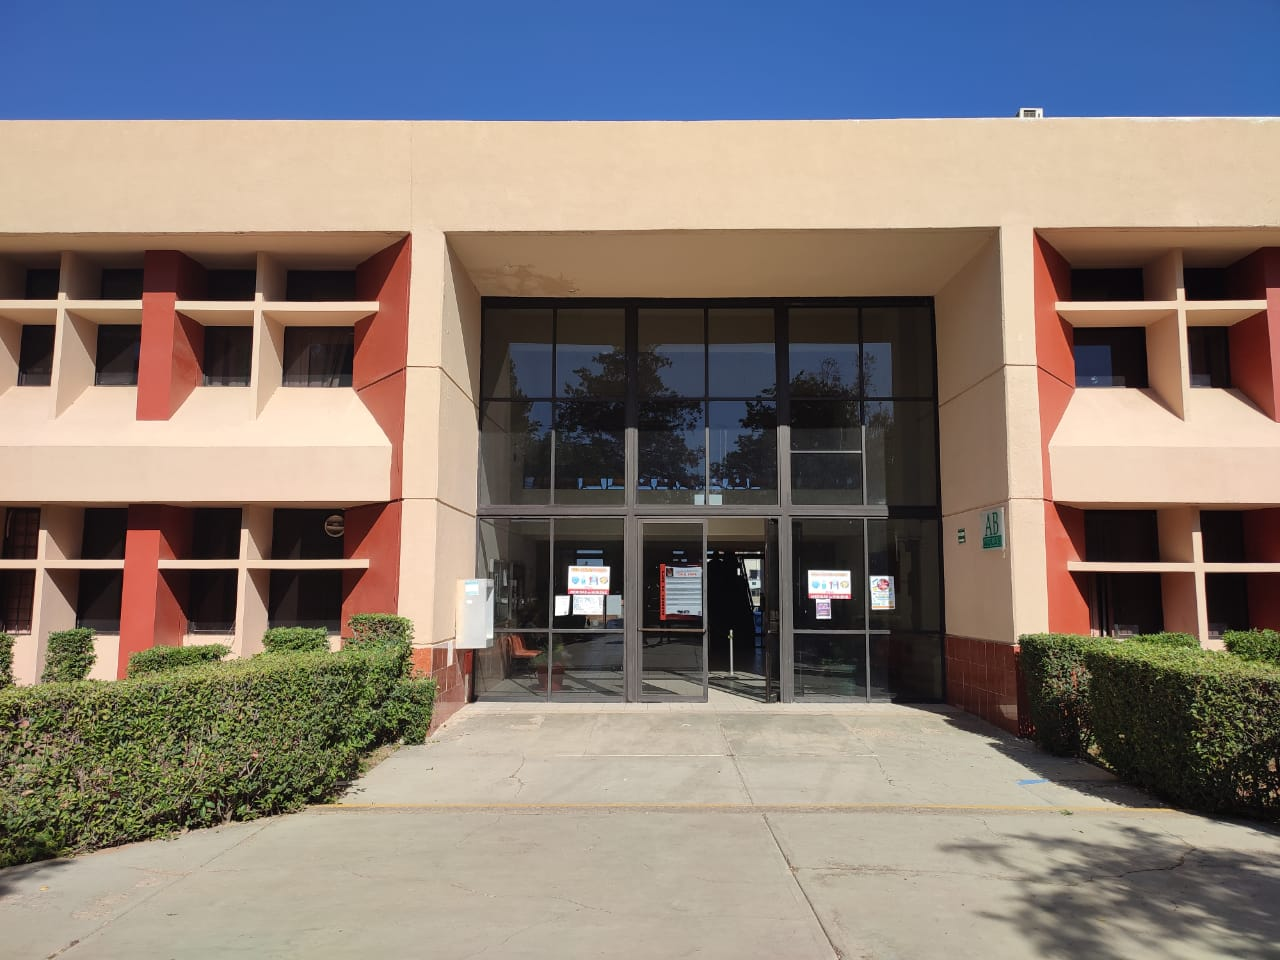
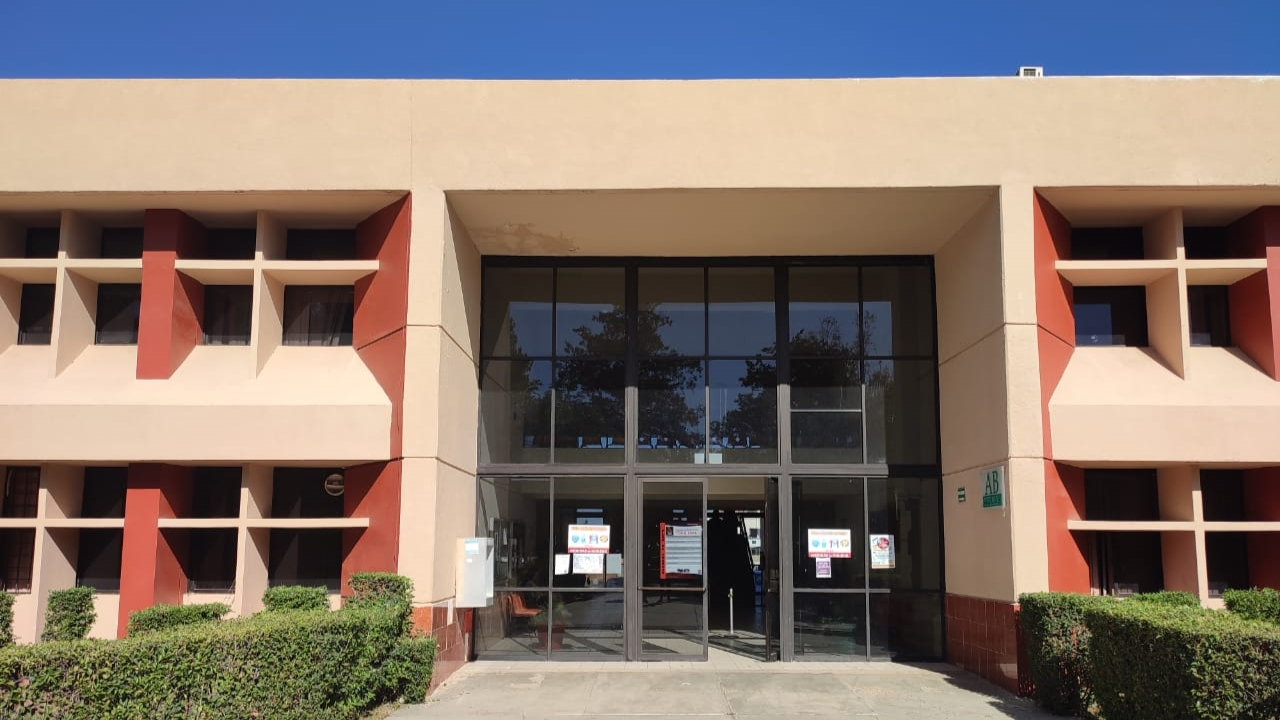
Pre-termiando

diff --git a/VMaptec/html/edificios.php b/VMaptec/html/edificios.php
@@ -34,67 +34,82 @@
                     <!-- Three columns of text below the carousel -->
                     <div class="row">
                         <div class="col-lg-4" style="text-align: center;">
-                            <svg class="bd-placeholder-img rounded-circle" width="140" height="140"
-                                xmlns="http://www.w3.org/2000/svg" role="img" aria-label="Placeholder: 140x140"
-                                preserveAspectRatio="xMidYMid slice" focusable="false" img>
-                                <rect width="100%" height="100%" fill="#777" ></rect>
-                            </svg>
-
+                            <!-- <svg class="bd-placeholder-img img-thumbnail" width="200" height="200" xmlns="http://www.w3.org/2000/svg"
+                                role="img" aria-label="Placeholder: 200x200" preserveAspectRatio="xMidYMid slice"
+                                focusable="false" img>
+                               
+                                <rect width="100%" height="100%" fill="#777"></rect>
+                            </svg> -->
+                            <img src="../imagenes/edificioa.jpeg" width="100%" style="border-radius: 15px;">
                             <h2>Edificio A</h2>
-                            <p>Aquí se encuentran los departamentos de Servicios escolares, Departamento de Servicios Generales, Titulación y Becas.
-                                Puedes realizar los tramites de  solicitud de becas y su respectiva titulación, al igual que la solicitud y aprobación para ser acreedor de constancias. </p>
+                            <p>Aquí se encuentran los departamentos de Servicios escolares, Departamento de Servicios
+                                Generales, Titulación y Becas.
+                                Puedes realizar los tramites de solicitud de becas y su respectiva titulación, al igual
+                                que la solicitud y aprobación para ser acreedor de constancias. </p>
                         </div><!-- /.col-lg-4 -->
                         <div class="col-lg-4" style="text-align: center;">
-                            <svg class="bd-placeholder-img rounded-circle" width="140" height="140"
-                                xmlns="http://www.w3.org/2000/svg" role="img" aria-label="Placeholder: 140x140"
-                                preserveAspectRatio="xMidYMid slice" focusable="false">
+                            <!-- <svg class="bd-placeholder-img img-thumbnail" width="200" height="200" xmlns="http://www.w3.org/2000/svg"
+                                role="img" aria-label="Placeholder: 140x140" preserveAspectRatio="xMidYMid slice"
+                                focusable="false">
                                 <rect width="100%" height="100%" fill="#777"></rect>
-                            </svg>
+                            </svg> -->
+                            <img src="../imagenes/edificioab.jpeg" width="100%" style="border-radius: 15px;">
                             <h2>Edificio AB</h2>
-                            <p>Aquí se encuentra el edificio Económico Administrativo. Puedes encontrar a todos los coordinadores de las diferentes carreras e ingles, División de Estudios Profesionales y la coordinación de apoyo a la titulación.</p>
+                            <p>Aquí se encuentra el edificio Económico Administrativo. Puedes encontrar a todos los
+                                coordinadores de las diferentes carreras e ingles, División de Estudios Profesionales y
+                                la coordinación de apoyo a la titulación.</p>
                         </div><!-- /.col-lg-4 -->
                         <div class="col-lg-4" style="text-align: center;">
-                            <svg class="bd-placeholder-img rounded-circle" width="140" height="140"
-                                xmlns="http://www.w3.org/2000/svg" preserveAspectRatio="xMidYMid slice" focusable="false">
+                            <!-- <svg class="bd-placeholder-img img-thumbnail" width="200" height="200" xmlns="http://www.w3.org/2000/svg"
+                                preserveAspectRatio="xMidYMid slice" focusable="false">
                                 <rect width="100%" height="100%" fill="#777"></rect>
-                            </svg>
+                            </svg> -->
+                            <img src="../imagenes/edificiou.jpeg" width="100%" style="border-radius: 15px;">
                             <h2>Edificio U</h2>
-                            <p>Aquí se encuentra el edificio de Centro de Computo. Puedes pedir información acerca de tu correo electrónico. Este correo te permite obtener software de paga completamente gratis. Aquí se distribuye internet a todo el Tec.  </p>
+                            <p>Aquí se encuentra el edificio de Centro de Computo. Puedes pedir información acerca de tu
+                                correo electrónico. Este correo te permite obtener software de paga completamente
+                                gratis. Aquí se distribuye internet a todo el Tec. </p>
                             <br>
-                        <br>
+                            <br>
                         </div><!-- /.col-lg-4 -->
                         <div class="col-lg-4" style="text-align: center;">
-                            <svg class="bd-placeholder-img rounded-circle" width="140" height="140"
-                                xmlns="http://www.w3.org/2000/svg" role="img" aria-label="Placeholder: 140x140"
-                                preserveAspectRatio="xMidYMid slice" focusable="false">
+                            <!-- <svg class="bd-placeholder-img img-thumbnail" width="200" height="200" xmlns="http://www.w3.org/2000/svg"
+                                role="img" aria-label="Placeholder: 140x140" preserveAspectRatio="xMidYMid slice"
+                                focusable="false">
                                 <rect width="100%" height="100%" fill="#777">
-                            </svg>
+                            </svg> -->
+                            <img src="../imagenes/edificiow.jpeg" width="100%" style="border-radius: 15px;">
                             <h2>Edificio W</h2>
-                            <p> Aquí se encuentra la biblioteca, con su apartado para solicitud de libros al igual que su área común
-                                 en dónde puedes realizar tus tareas. Cuenta con cubículos, proporcionándote acceso a las bibliotecas virtuales con las que la escuela cuenta. </p>
-                            
+                            <p> Aquí se encuentra la biblioteca, con su apartado para solicitud de libros al igual que
+                                su área común
+                                en dónde puedes realizar tus tareas. Cuenta con cubículos, proporcionándote acceso a las
+                                bibliotecas virtuales con las que la escuela cuenta. </p>
+
                         </div><!-- /.col-lg-4 -->
                         <div class="col-lg-4" style="text-align: center;">
-                            <svg class="bd-placeholder-img rounded-circle" width="140" height="140"
-                                xmlns="http://www.w3.org/2000/svg" role="img" aria-label="Placeholder: 140x140"
-                                preserveAspectRatio="xMidYMid slice" focusable="false">
+                            <!-- <svg class="bd-placeholder-img img-thumbnail" width="200" height="200" xmlns="http://www.w3.org/2000/svg"
+                                role="img" aria-label="Placeholder: 140x140" preserveAspectRatio="xMidYMid slice"
+                                focusable="false">
                                 <rect width="100%" height="100%" fill="#777">
-                            </svg>
-
+                            </svg> -->
+                            <img src="../imagenes/edificiox.jpg" width="100%" style="border-radius: 15px;">
                             <h2>Edificio X</h2>
-                            <p>Aquí se encuentran los departamentos de Gestión Tecnológica y Vinculación, Desarrollo Académico, Planeación y Jefatura. </p>
-                            
+                            <p>Aquí se encuentran los departamentos de Gestión Tecnológica y Vinculación, Desarrollo
+                                Académico, Planeación y Jefatura. </p>
+
                         </div><!-- /.col-lg-4 -->
                         <div class="col-lg-4" style="text-align: center;">
-                            <svg class="bd-placeholder-img rounded-circle" width="140" height="140"
-                                xmlns="http://www.w3.org/2000/svg" role="img" aria-label="Placeholder: 140x140"
-                                preserveAspectRatio="xMidYMid slice" focusable="false">
+                            <!-- <svg class="bd-placeholder-img img-thumbnail" width="200" height="200" xmlns="http://www.w3.org/2000/svg"
+                                role="img" aria-label="Placeholder: 140x140" preserveAspectRatio="xMidYMid slice"
+                                focusable="false">
                                 <rect width="100%" height="100%" fill="#777">
-                            </svg>
-
+                            </svg> -->
+                            <img src="../imagenes/edificioy.jpg" width="100%" style="border-radius: 15px;">
                             <h2>Edifico Y</h2>
-                            <p>Aquí se encuentran los departamentos de Dirección, Subdirección y la Caja. Aquí puedes realizar todos los pagos correspondientes a los <a href="tramites.php">tramites</a>.  </p>
-                            
+                            <p>Aquí se encuentran los departamentos de Dirección, Subdirección y la Caja. Aquí puedes
+                                realizar todos los pagos correspondientes a los <a href="tramites.php">tramites</a>.
+                            </p>
+
                         </div><!-- /.col-lg-4 -->
                     </div><!-- /.row -->
                     <br>

diff --git a/VMaptec/html/creditos.php b/VMaptec/html/creditos.php
@@ -51,7 +51,7 @@
                 <br><br>
                 <h2 id="fundamento">Fundamento de la actividad </h2>
                 <br>
-              c
+                c
             </div>
             <h3>Tutoria:</h3>
             <p>La tutoría es un programa que permite la mejora del proceso de aprendizaje por los estudiantes,
@@ -103,6 +103,17 @@
                 competencias del estudiante.</p>
             <h4>Evidencias para la evaluación y acreditación</h4>
             <p>Constancia de acreditación expedida por el Departamento encargado de la operación del programa.</p>
+            <br><br>
+            <div id="disqus_thread"></div>
+            <script>
+                (function () {
+                    var d = document,
+                        s = d.createElement('script');
+                    s.src = 'https://vmaptec.disqus.com/embed.js';
+                    s.setAttribute('data-timestamp', +new Date());
+                    (d.head || d.body).appendChild(s);
+                })();
+            </script>
         </div>
     </div>
 
